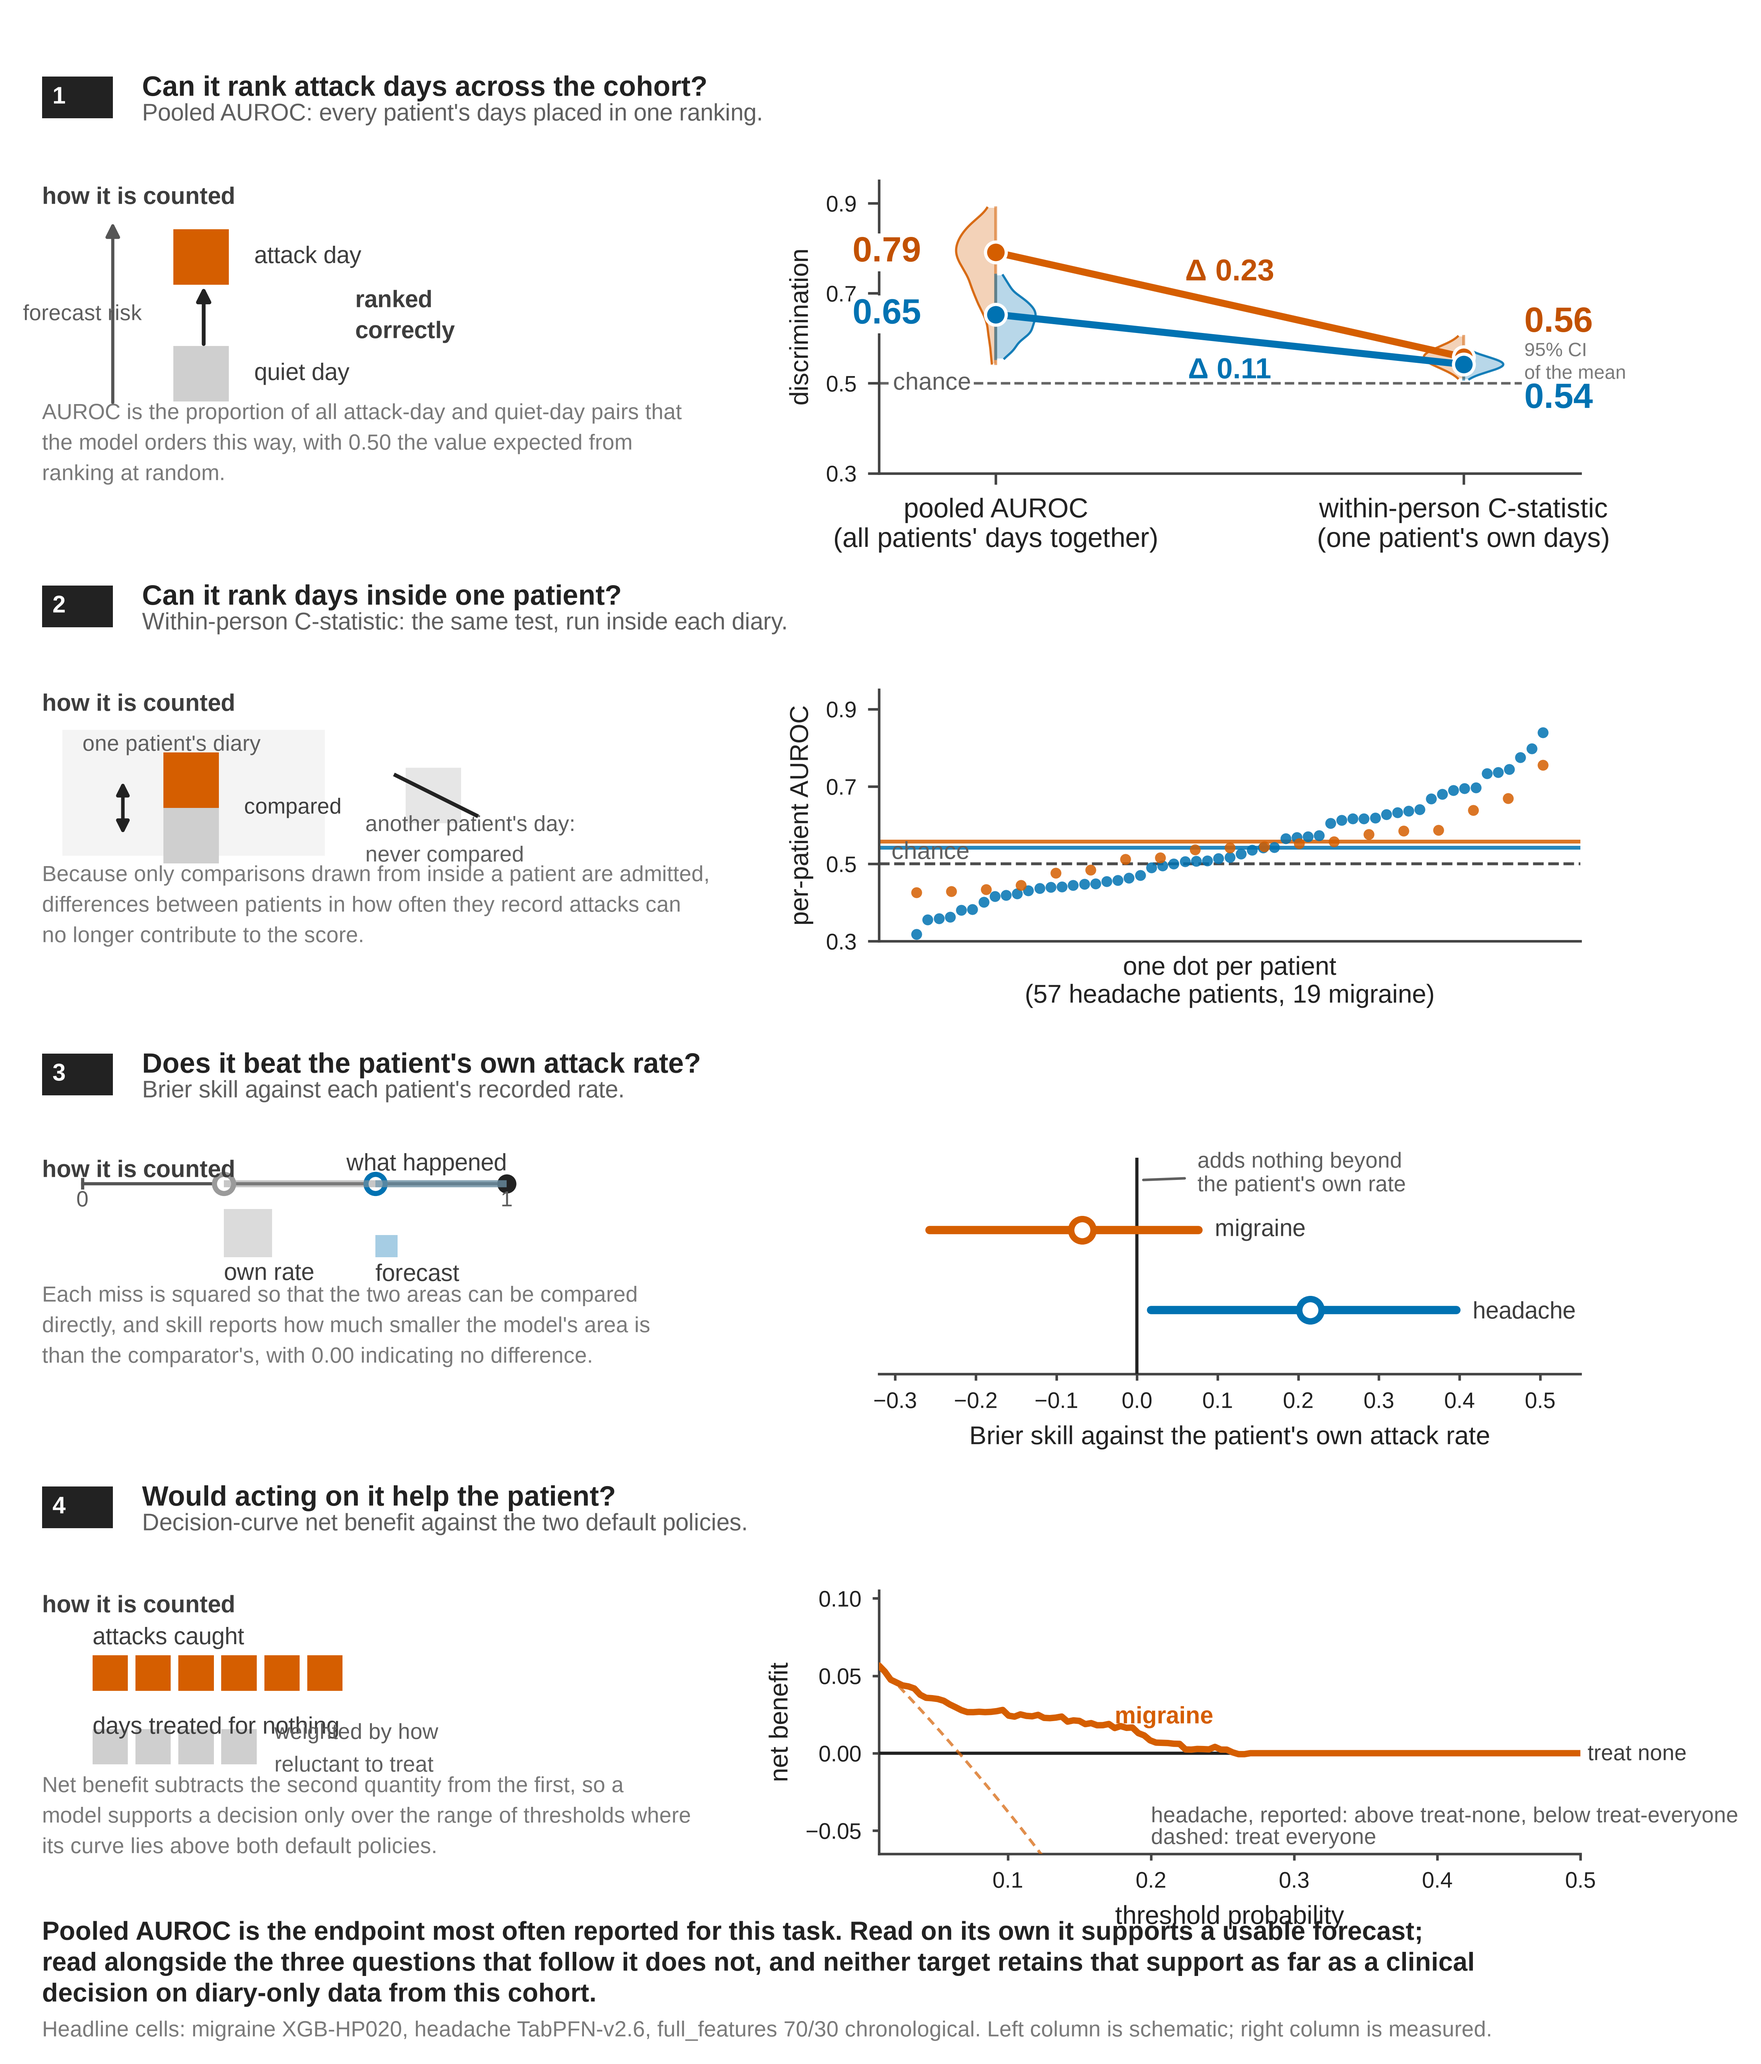
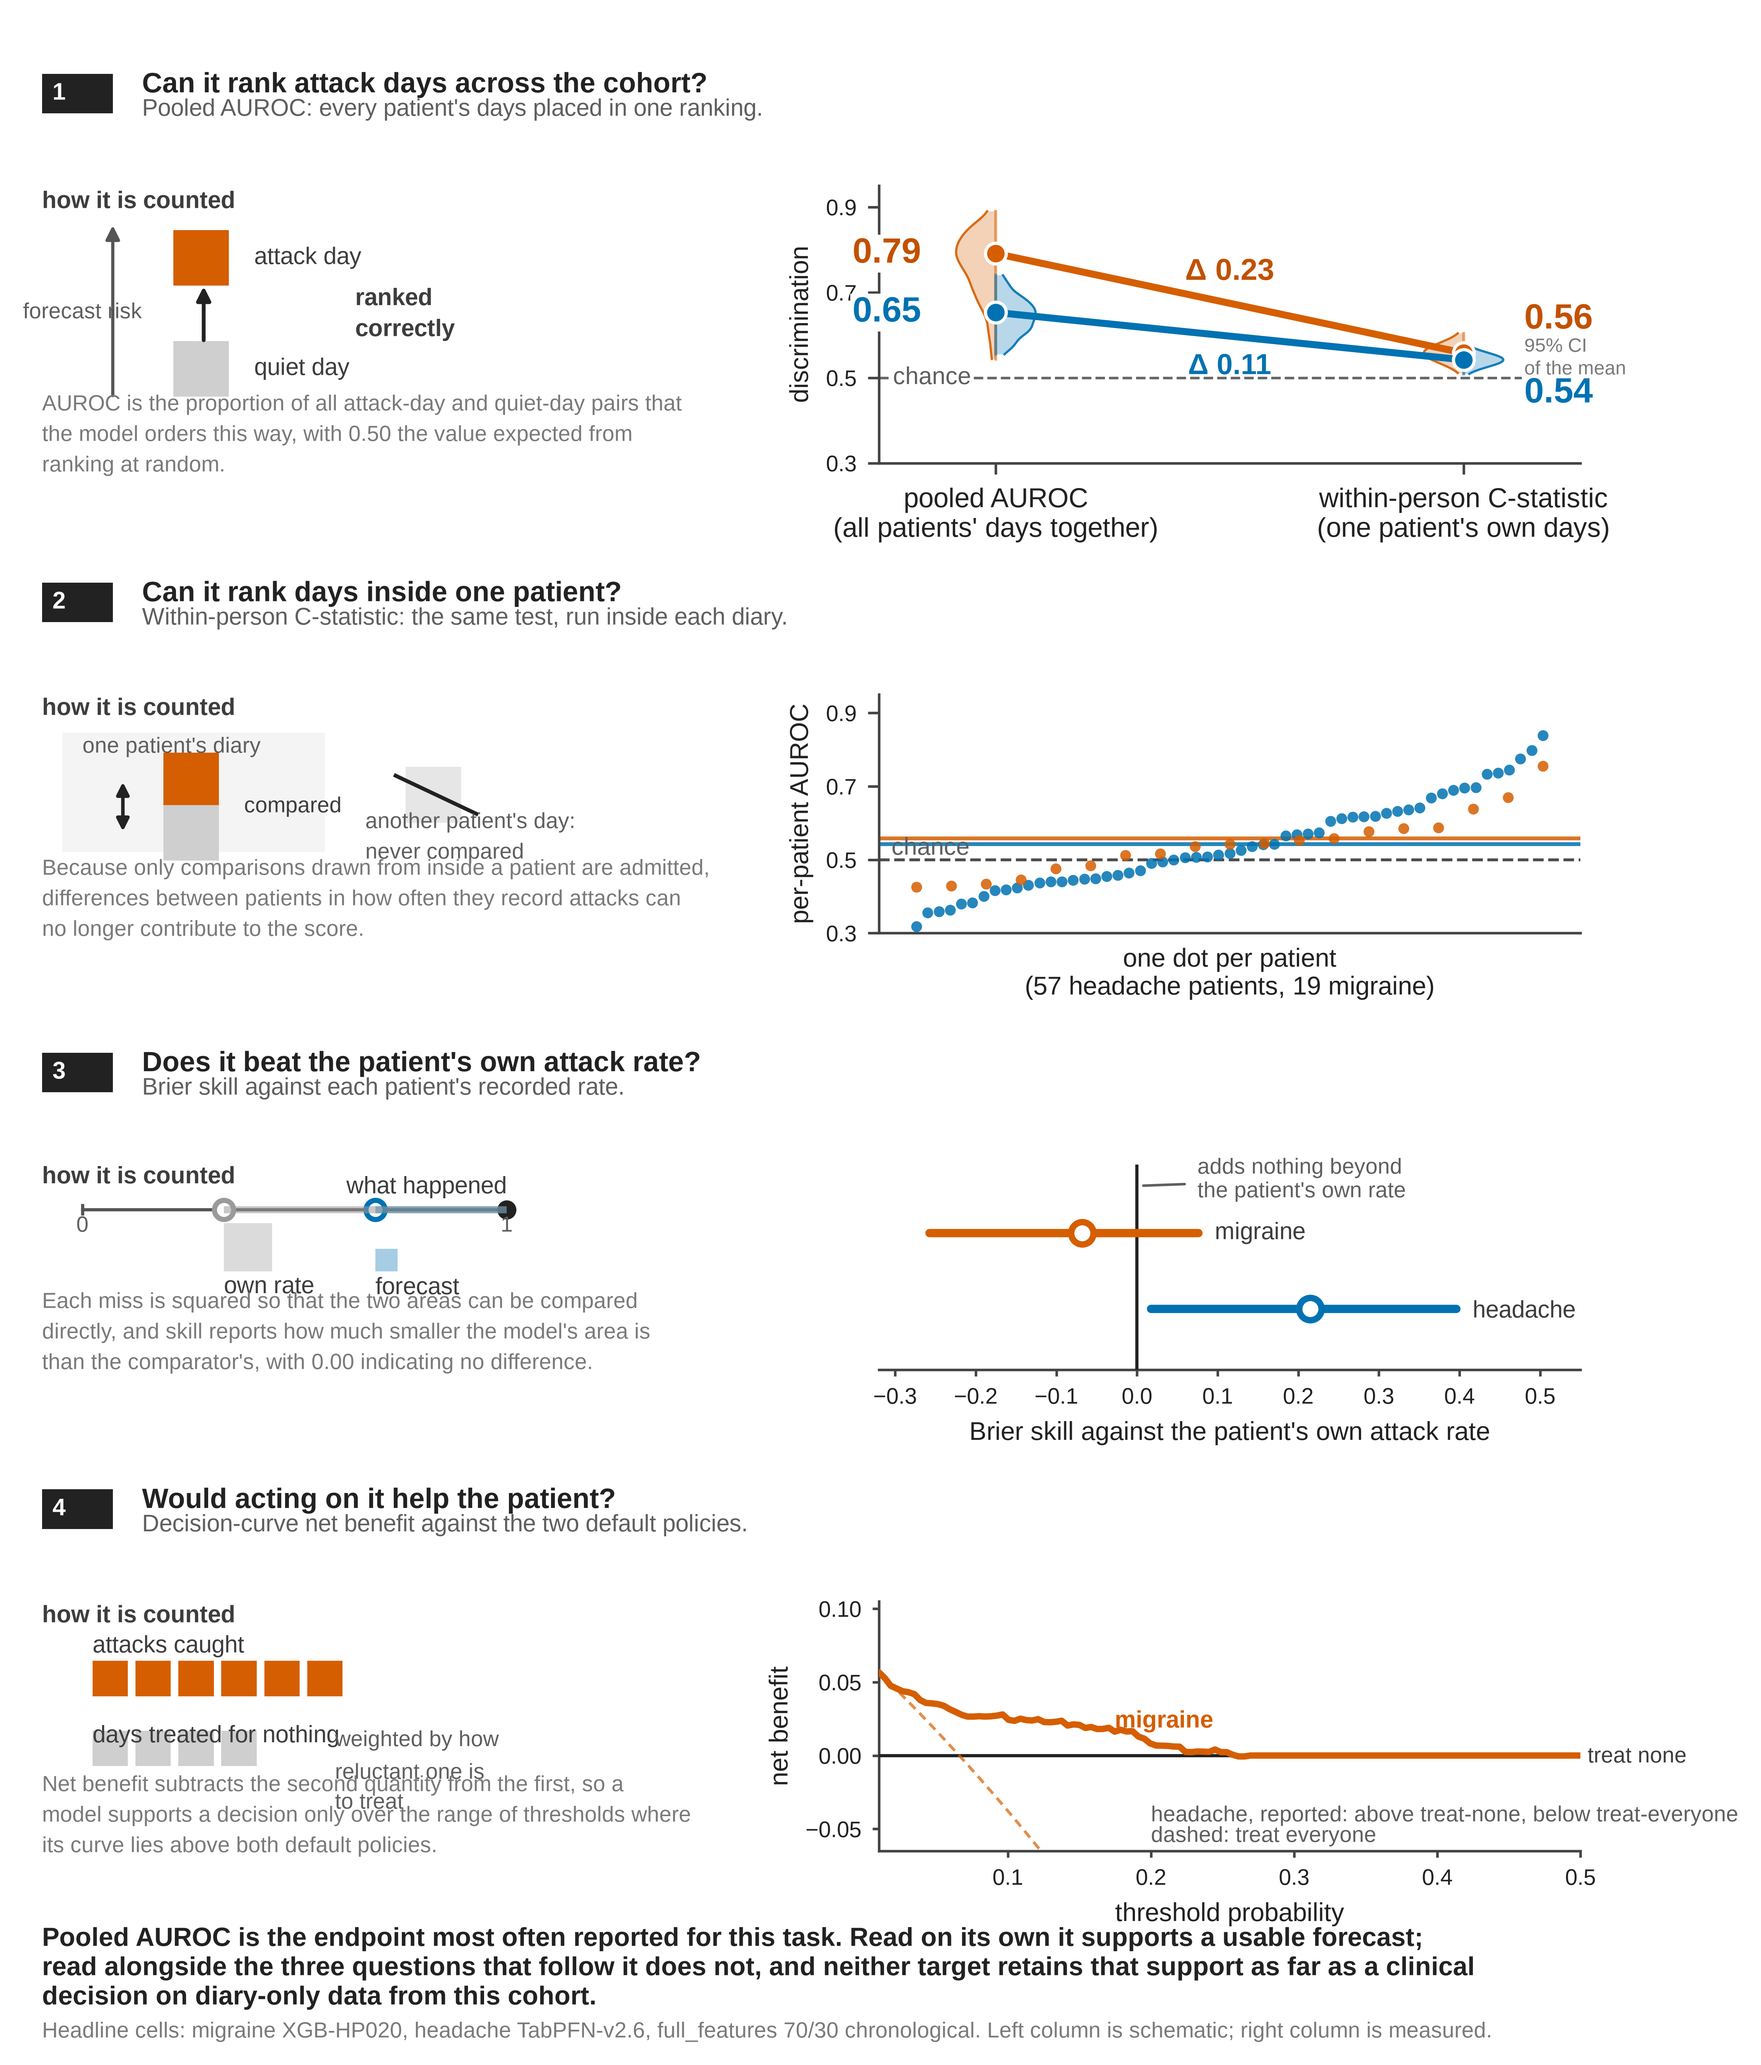
space

diff --git a/docs/methodAndResults_diagramCreatorScripts/fig_a6_pooled_vs_within.py b/docs/methodAndResults_diagramCreatorScripts/fig_a6_pooled_vs_within.py
@@ -141,20 +141,20 @@ def _how_brier(ax, hea):
     """Brier compares the squared miss of the forecast with that of the patient's rate."""
     ax.axis("off"); ax.set_xlim(0, 100); ax.set_ylim(0, 100)
     _lab(ax, 0, 95, "how it is counted", PT_BODY, BODY, weight="bold")
-    ax.plot([8, 92], [88, 88], color=S.GREY, lw=1.0)
+    ax.plot([8, 92], [78, 78], color=S.GREY, lw=1.0)
     for x, t in ((8, "0"), (92, "1")):
-        ax.plot([x, x], [86, 90], color=S.GREY, lw=1.0)
-        _lab(ax, x, 81, t, PT_FINE, SECOND, ha="center")
-    ax.plot([92], [88], "o", ms=6, mfc=S.INK, mec="none")
-    _lab(ax, 92, 97, "what happened", PT_BODY, BODY, ha="right")
+        ax.plot([x, x], [76, 80], color=S.GREY, lw=1.0)
+        _lab(ax, x, 71, t, PT_FINE, SECOND, ha="center")
+    ax.plot([92], [78], "o", ms=6, mfc=S.INK, mec="none")
+    _lab(ax, 92, 89, "what happened", PT_BODY, BODY, ha="right")
     for x, col, lab, side in ((66, hea, "forecast", 1), (36, "#9a9a9a", "own rate", -1)):
-        ax.plot([x], [88], "o", ms=6, mfc="white", mec=col, mew=1.6)
-        ax.plot([x, 92], [88, 88], color=col, lw=2.2, alpha=0.55,
+        ax.plot([x], [78], "o", ms=6, mfc="white", mec=col, mew=1.6)
+        ax.plot([x, 92], [78, 78], color=col, lw=2.2, alpha=0.55,
                 solid_capstyle="butt")
         sq = (92 - x) * 0.17
-        _sq(ax, x, 54, sq, col, alpha=0.35, anchor="bottom")
-        _lab(ax, x, 47, lab, PT_BODY, BODY)
-    _lab(ax, 0, 22, "Each miss is squared so that the two areas can be compared"
+        _sq(ax, x, 48, sq, col, alpha=0.35, anchor="bottom")
+        _lab(ax, x, 41, lab, PT_BODY, BODY)
+    _lab(ax, 0, 18, "Each miss is squared so that the two areas can be compared"
                     "\ndirectly, and skill reports how much smaller the model's area is"
                     "\nthan the comparator's, with 0.00 indicating no difference.",
          PT_FINE, THIRD)
@@ -169,8 +169,8 @@ def _how_dca(ax, att):
     _lab(ax, 10, 82, "attacks caught", PT_BODY, BODY)
     for i in range(4):
         _sq(ax, 10 + i * 8.5, 34, 7, "#cfcfcf", anchor="bottom")
-    _lab(ax, 10, 48, "days treated for nothing", PT_BODY, BODY)
-    _lab(ax, 46, 40, "weighted by how\nreluctant to treat", PT_FINE, SECOND)
+    _lab(ax, 10, 46, "days treated for nothing", PT_BODY, BODY)
+    _lab(ax, 58, 32, "weighted by how\nreluctant one is\nto treat", PT_FINE, SECOND)
     _lab(ax, 0, 14, "Net benefit subtracts the second quantity from the first, so a"
                     "\nmodel supports a decision only over the range of thresholds where"
                     "\nits curve lies above both default policies.", PT_FINE, THIRD)
@@ -254,7 +254,7 @@ def main() -> None:
     gs = fig.add_gridspec(9, 2, width_ratios=[0.72, 1.0],
                           height_ratios=[0.34, 1.00, 0.34, 0.86, 0.34, 0.74, 0.34, 0.90, 0.44],
                           left=0.055, right=0.985, top=0.972, bottom=0.018,
-                          wspace=0.55, hspace=0.34)
+                          wspace=0.55, hspace=0.42)
 
     # Create every axes first, then draw once: the schematics size their squares from
     # the rendered box, so the boxes have to exist before anything is placed in them.
